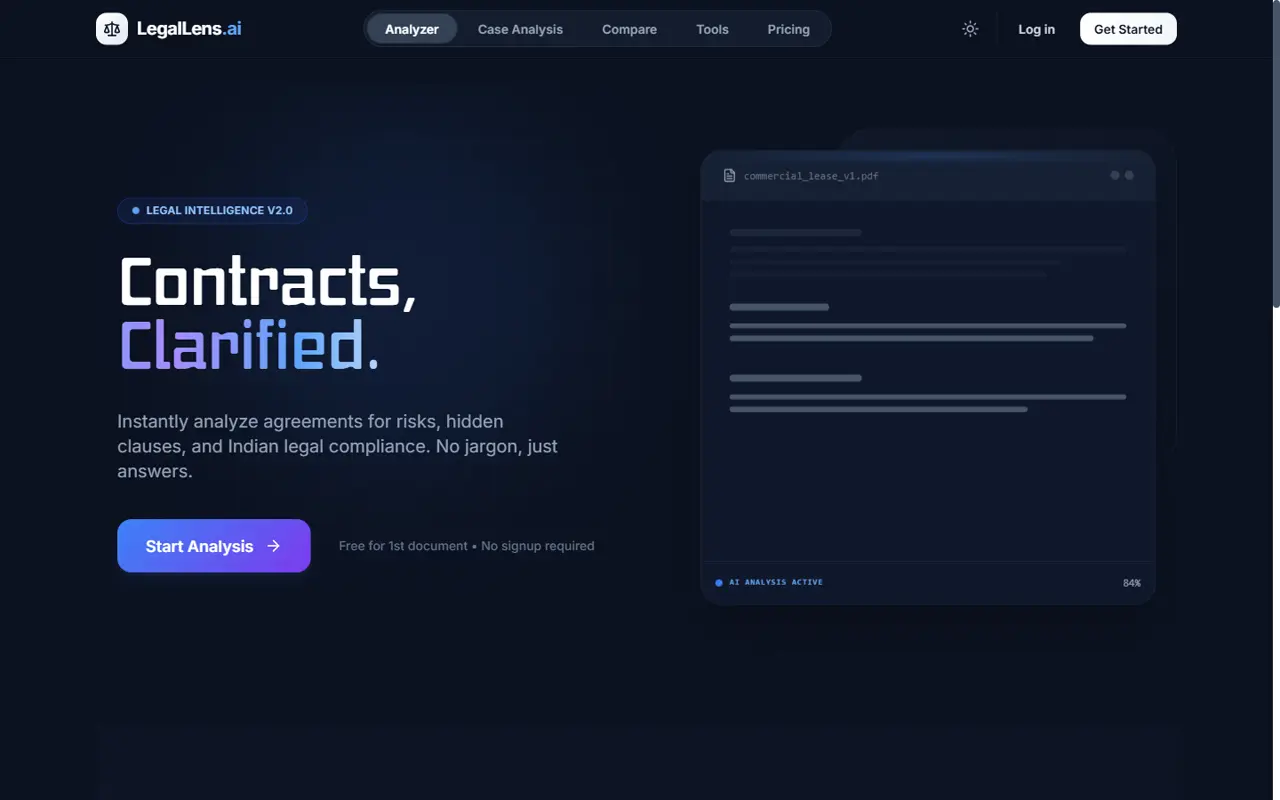
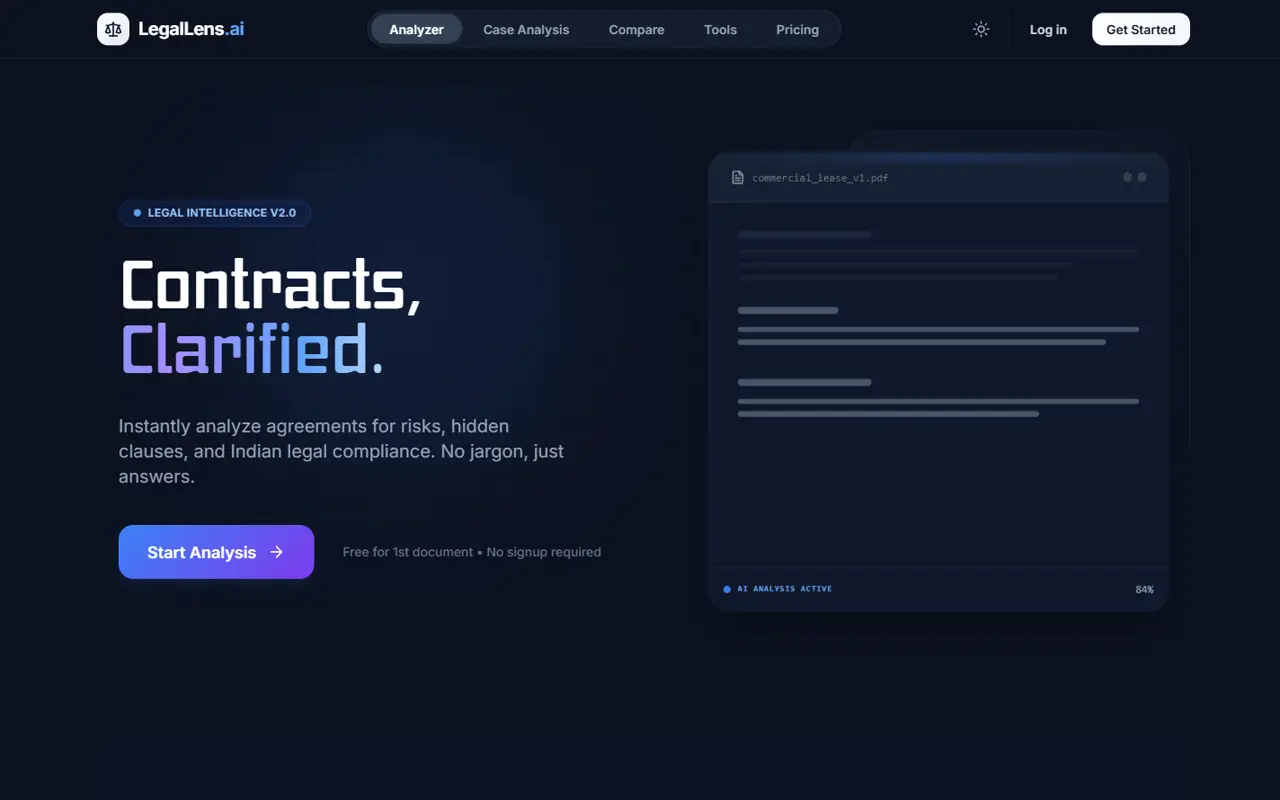
Fix Legal Lens preview and contact email
- Legal Lens is now a full-width featured card with an uncropped 16:10
  preview beside the text (the stretched fill mode cropped it badly)
- Re-crop the Legal Lens screenshot to remove the captured scrollbar
- Contact email: petlakeerthi@gmail.com (page, JSON-LD, noscript, llms.txt)

diff --git a/src/components/Projects.tsx b/src/components/Projects.tsx
@@ -123,18 +123,14 @@ const HoverArrow: React.FC = () => (
 );
 
 /** Live-site screenshot that lifts slightly when its card is hovered. */
-const ProjectPreview: React.FC<{ project: Project; fill?: boolean; className?: string }> = ({
+const ProjectPreview: React.FC<{ project: Project; sizes?: string; className?: string }> = ({
   project,
-  fill = false,
+  sizes,
   className = ''
 }) =>
   project.screenshot ? (
-    <div
-      className={`transition-transform duration-500 ease-out-strong group-hover:-translate-y-1 ${
-        fill ? 'flex flex-col flex-1' : ''
-      } ${className}`}
-    >
-      <BrowserFrame src={project.screenshot} alt={`${project.title} — live site`} url={project.liveUrl} fill={fill} />
+    <div className={`transition-transform duration-500 ease-out-strong group-hover:-translate-y-1 ${className}`}>
+      <BrowserFrame src={project.screenshot} alt={`${project.title} — live site`} url={project.liveUrl} sizes={sizes} />
     </div>
   ) : null;
 
@@ -217,20 +213,24 @@ export const Projects: React.FC<ProjectsProps> = ({ selectedSkill }) => {
         />
 
         <div className="grid grid-cols-1 lg:grid-cols-2 gap-4">
-          {/* P-01: featured, spans two rows, with a warm light pooling at the top */}
+          {/*
+            P-01: featured, full width. Text on the left, the live-site preview on the right at its
+            natural 16:10 — a landscape screenshot fits a wide card without cropping.
+          */}
           <BentoCard
             index={0}
             project={legalLens}
             onOpen={setActiveProject}
             dimmed={isDimmed(legalLens)}
-            wrapperClassName="lg:row-span-2"
+            wrapperClassName="lg:col-span-2"
           >
             <div
               aria-hidden="true"
-              className="absolute inset-x-0 top-0 h-2/3 pointer-events-none"
-              style={{ background: 'radial-gradient(80% 60% at 20% 0%, rgba(214,140,72,0.16), transparent 70%)' }}
+              className="absolute inset-y-0 left-0 w-2/3 pointer-events-none"
+              style={{ background: 'radial-gradient(70% 70% at 10% 0%, rgba(214,140,72,0.16), transparent 70%)' }}
             />
-            <div className="relative p-6 sm:p-9 flex flex-col h-full">
+            <div className="relative p-6 sm:p-9 grid grid-cols-1 lg:grid-cols-[minmax(0,1fr)_minmax(0,1.15fr)] gap-8 lg:gap-12 items-center">
+              <div>
               <div className="flex items-start justify-between gap-3 mb-8">
                 <div className="flex items-center gap-2 flex-wrap">
                   <span className="w-10 h-10 rounded-2xl glass-chip flex items-center justify-center">
@@ -263,8 +263,8 @@ export const Projects: React.FC<ProjectsProps> = ({ selectedSkill }) => {
                   <Tag key={t} label={t} />
                 ))}
               </div>
-              {/* Fills the remaining height so the featured card never has a dead gap beside the stacked cards */}
-              <ProjectPreview project={legalLens} fill className="mt-8" />
+              </div>
+              <ProjectPreview project={legalLens} sizes="(min-width: 1024px) 660px, 100vw" />
             </div>
           </BentoCard>
 

diff --git a/src/components/BrowserFrame.tsx b/src/components/BrowserFrame.tsx
@@ -8,11 +8,6 @@ interface BrowserFrameProps {
   url: string;
   /** Rendered width hint for srcset selection. */
   sizes?: string;
-  /**
-   * Grow to fill the parent's remaining height (parent must be a flex column) instead of
-   * keeping a 16:10 box; the screenshot is cropped from its top-left corner.
-   */
-  fill?: boolean;
   className?: string;
 }
 
@@ -24,16 +19,15 @@ const hostname = (url: string) => {
   }
 };
 
-/** Screenshot of a live project inside a minimal glass browser window. */
+/** Screenshot of a live project inside a minimal glass browser window, always at its native 16:10. */
 export const BrowserFrame: React.FC<BrowserFrameProps> = ({
   src,
   alt,
   url,
   sizes = '(min-width: 1024px) 600px, 100vw',
-  fill = false,
   className = ''
 }) => (
-  <div className={`glass-chip rounded-2xl overflow-hidden flex flex-col ${fill ? 'flex-1 min-h-[260px]' : ''} ${className}`}>
+  <div className={`glass-chip rounded-2xl overflow-hidden ${className}`}>
     <div className="flex items-center gap-1.5 px-3 py-2 border-b border-primary/10">
       <span className="w-2 h-2 rounded-full bg-primary/25" aria-hidden="true" />
       <span className="w-2 h-2 rounded-full bg-primary/20" aria-hidden="true" />
@@ -43,22 +37,16 @@ export const BrowserFrame: React.FC<BrowserFrameProps> = ({
       </span>
       <span className="w-[42px]" aria-hidden="true" />
     </div>
-    <div className={fill ? 'relative flex-1' : ''}>
-      <img
-        src={`${src}-640.webp`}
-        srcSet={`${src}-640.webp 640w, ${src}-1280.webp 1280w`}
-        sizes={sizes}
-        alt={alt}
-        width={1280}
-        height={800}
-        loading="lazy"
-        decoding="async"
-        className={
-          fill
-            ? 'absolute inset-0 w-full h-full object-cover object-left-top'
-            : 'block w-full aspect-[16/10] object-cover object-top'
-        }
-      />
-    </div>
+    <img
+      src={`${src}-640.webp`}
+      srcSet={`${src}-640.webp 640w, ${src}-1280.webp 1280w`}
+      sizes={sizes}
+      alt={alt}
+      width={1280}
+      height={800}
+      loading="lazy"
+      decoding="async"
+      className="block w-full aspect-[16/10] object-cover object-top"
+    />
   </div>
 );

diff --git a/index.html b/index.html
@@ -43,7 +43,7 @@
         "name": "Petla Keerthi",
         "url": "https://keerthipetla.dev/",
         "jobTitle": "Full-Stack Web Developer",
-        "email": "mailto:petakeerthi@gmail.com",
+        "email": "mailto:petlakeerthi@gmail.com",
         "address": { "@type": "PostalAddress", "addressRegion": "Andhra Pradesh", "addressCountry": "IN" },
         "alumniOf": { "@type": "CollegeOrUniversity", "name": "Aditya University" },
         "knowsAbout": ["React", "JavaScript", "Java", "Python", "SQL", "Node.js", "Express.js", "MongoDB", "Full-Stack Web Development"],
@@ -75,7 +75,7 @@
     <noscript>
       <p style="font-family: sans-serif; color: #dedbc8; padding: 2rem">
         Petla Keerthi — Full-Stack Web Developer. Email
-        <a href="mailto:petakeerthi@gmail.com" style="color: #dedbc8">petakeerthi@gmail.com</a> ·
+        <a href="mailto:petlakeerthi@gmail.com" style="color: #dedbc8">petlakeerthi@gmail.com</a> ·
         <a href="https://github.com/keerthipetla" style="color: #dedbc8">GitHub</a> ·
         <a href="https://www.linkedin.com/in/keerthi-petla-9b2941298" style="color: #dedbc8">LinkedIn</a>
       </p>

diff --git a/src/data/profile.ts b/src/data/profile.ts
@@ -5,7 +5,7 @@ export const profileData: Profile = {
   headline: 'Software Developer & IT Engineer',
   tagline: 'I build web applications that solve real problems with clean code and creative thinking.',
   aboutText: 'Information Technology student with a strong foundation in web development and hands-on experience in full-stack development through internship. Built innovative web projects, demonstrating problem-solving skills and a commitment to continuous learning and real-world application of technology.',
-  email: 'petakeerthi@gmail.com',
+  email: 'petlakeerthi@gmail.com',
   phone: '+91 79811 87965',
   linkedin: 'https://www.linkedin.com/in/keerthi-petla-9b2941298',
   github: 'https://github.com/keerthipetla',
